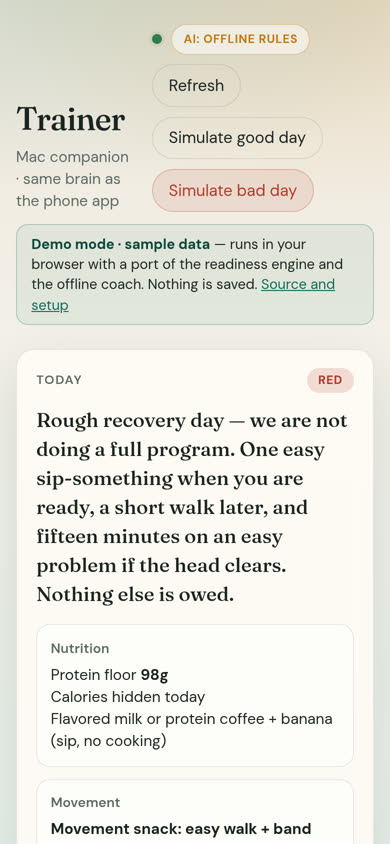
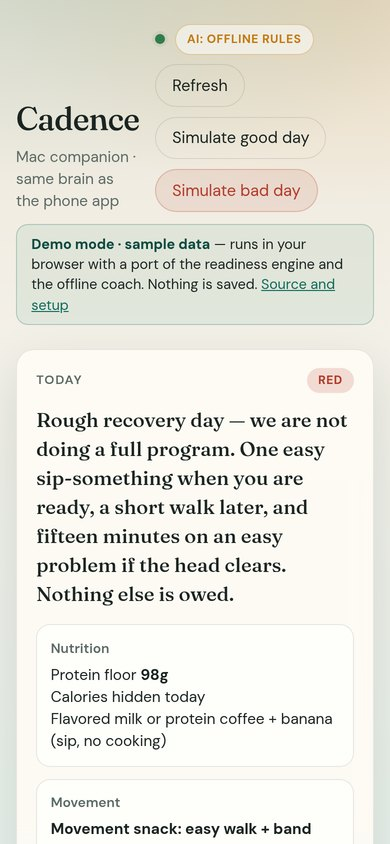
Rename the project to Cadence

diff --git a/backend/web/index.html b/backend/web/index.html
@@ -3,7 +3,7 @@
 <head>
   <meta charset="UTF-8" />
   <meta name="viewport" content="width=device-width, initial-scale=1" />
-  <title>Trainer</title>
+  <title>Cadence</title>
   <link rel="preconnect" href="https://fonts.googleapis.com" />
   <link rel="preconnect" href="https://fonts.gstatic.com" crossorigin />
   <link href="https://fonts.googleapis.com/css2?family=DM+Sans:ital,opsz,wght@0,9..40,400;0,9..40,500;0,9..40,600;0,9..40,700;1,9..40,400&family=Fraunces:opsz,wght@9..144,500;9..144,600&display=swap" rel="stylesheet" />
@@ -13,7 +13,7 @@
   <div class="bg"></div>
   <header class="top">
     <div>
-      <p class="brand">Trainer</p>
+      <p class="brand">Cadence</p>
       <p class="tag">Mac companion · same brain as the phone app</p>
     </div>
     <div class="top-actions">
@@ -24,7 +24,7 @@
       <button type="button" id="btnBadDay" class="danger">Simulate bad day</button>
     </div>
   </header>
-  <p id="demoNote" class="demo-note" hidden><strong>Demo mode · sample data</strong> — runs in your browser with a port of the readiness engine and the offline coach. Nothing is saved. <a href="https://github.com/AkhilSingh2/trainer">Source and setup</a></p>
+  <p id="demoNote" class="demo-note" hidden><strong>Demo mode · sample data</strong> — runs in your browser with a port of the readiness engine and the offline coach. Nothing is saved. <a href="https://github.com/AkhilSingh2/cadence">Source and setup</a></p>
   <p id="aiHint" class="ai-hint" hidden></p>
 
   <main class="grid">

diff --git a/backend/web/app.js b/backend/web/app.js
@@ -23,7 +23,7 @@ let recognition = null;
 
 async function api(path, { method = "GET", body } = {}) {
   // Demo builds (GitHub Pages) answer locally with sample data; see demo/demo-api.js.
-  if (window.TrainerDemo) return window.TrainerDemo.handle(path, { method, body });
+  if (window.CadenceDemo) return window.CadenceDemo.handle(path, { method, body });
   let res;
   try {
     res = await fetch(`${API}${path}`, {
@@ -331,6 +331,6 @@ function setupVoice() {
   };
 }
 
-if (window.TRAINER_DEMO) document.getElementById("demoNote").hidden = false;
+if (window.CADENCE_DEMO) document.getElementById("demoNote").hidden = false;
 setupVoice();
 refresh().catch((e) => toast(e.message));

diff --git a/demo/demo-api.js b/demo/demo-api.js
@@ -1,4 +1,4 @@
-/* Trainer demo mode (GitHub Pages build only).
+/* Cadence demo mode (GitHub Pages build only).
  *
  * Answers the web UI's /v1 calls in the browser with sample data so the app can be
  * tried without Postgres or the API. It is included only by scripts/build_demo.py (GitHub Pages);
@@ -372,8 +372,8 @@
     },
   };
 
-  window.TRAINER_DEMO = true;
-  window.TrainerDemo = {
+  window.CADENCE_DEMO = true;
+  window.CadenceDemo = {
     async handle(path, { method = "GET", body } = {}) {
       await new Promise((r) => setTimeout(r, 120 + Math.random() * 180));
       const handler = routes[`${method} ${path.split("?")[0]}`];

diff --git a/ios/Cadence/Cadence/App/CadenceApp.swift b/ios/Cadence/Cadence/App/CadenceApp.swift
@@ -1,7 +1,7 @@
 import SwiftUI
 
 @main
-struct TrainerApp: App {
+struct CadenceApp: App {
     @StateObject private var appModel = AppModel()
 
     var body: some Scene {
